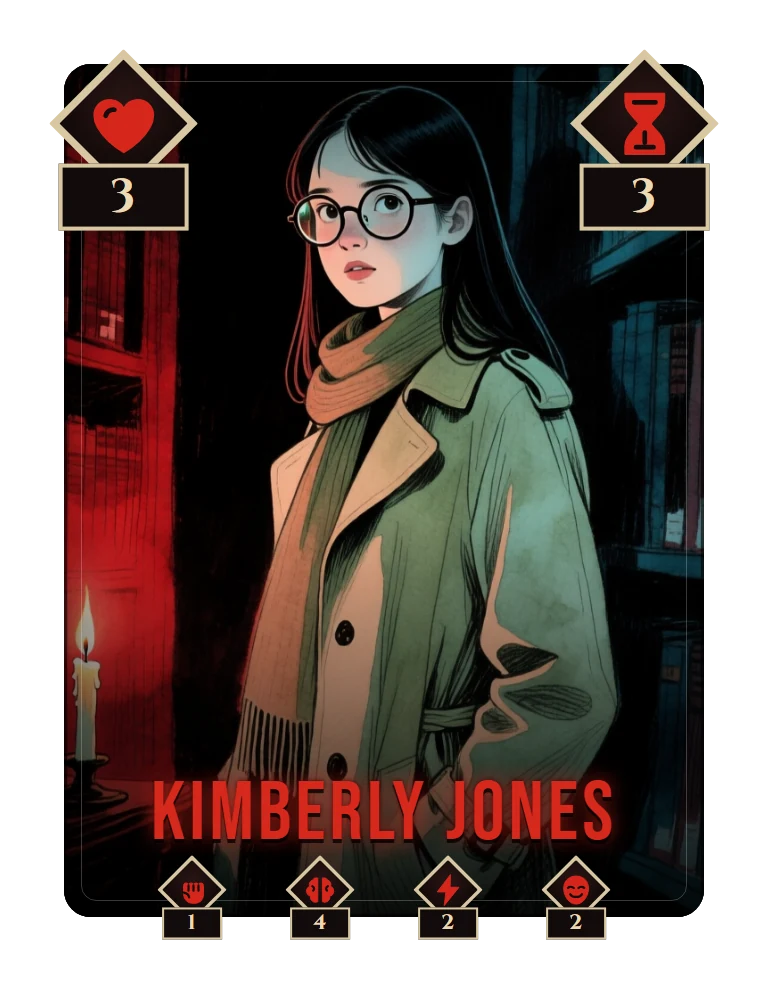
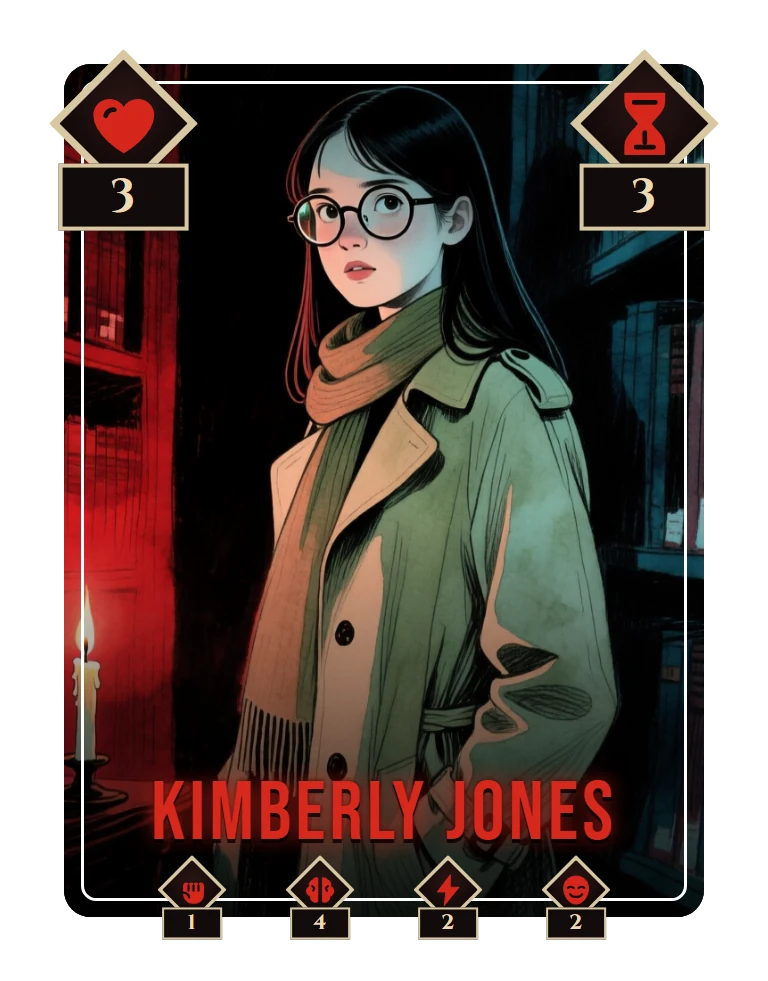
Carte: cornice bianca piena e niente vignettatura ai bordi (carte personaggio ri-esportate)

diff --git a/tools/galleria/carta.js b/tools/galleria/carta.js
@@ -22,7 +22,7 @@ const Carta = (() => {
     const els = [
       { id: "immagine", tipo: "immagine", nome: "Immagine", visibile: true },
       { id: "sfumatura", tipo: "sfumatura", nome: "Sfumatura", visibile: true, altezza: 48, intensita: 1 },
-      { id: "cornice", tipo: "cornice", nome: "Cornice", visibile: true, inset: 2.6, spessore: 0.3, colore: "#ffffff", opacita: 0.22, raggio: 2.4 },
+      { id: "cornice", tipo: "cornice", nome: "Cornice", visibile: true, inset: 2.6, spessore: 0.6, colore: "#ffffff", opacita: 1, raggio: 2.4 },
       { id: "nome", tipo: "testo", nome: "Nome", visibile: true, testo: null, x: 50, y: vert ? 88 : 86, dim: vert ? 13 : 11,
         font: "Bebas Neue", colore: "#d6281c", spaziatura: 0.6, maiuscolo: true, alone: true, rot: 0 },
     ];
@@ -57,7 +57,6 @@ const Carta = (() => {
     if (e.tipo === "sfumatura") {
       const n = div("cx-el cx-sfumatura"), k = e.intensita;
       n.style.background = `linear-gradient(180deg, rgba(0,0,0,${0.28 * k}) 0%, transparent 22%, transparent ${100 - e.altezza}%, rgba(0,0,0,${Math.min(1, 0.88 * k)}) 100%)`;
-      n.style.boxShadow = `inset 0 0 0 .5cqw rgba(0,0,0,${0.6 * k}), inset 0 0 14cqw rgba(0,0,0,${0.55 * k})`;
       return n;
     }
     if (e.tipo === "cornice") {
